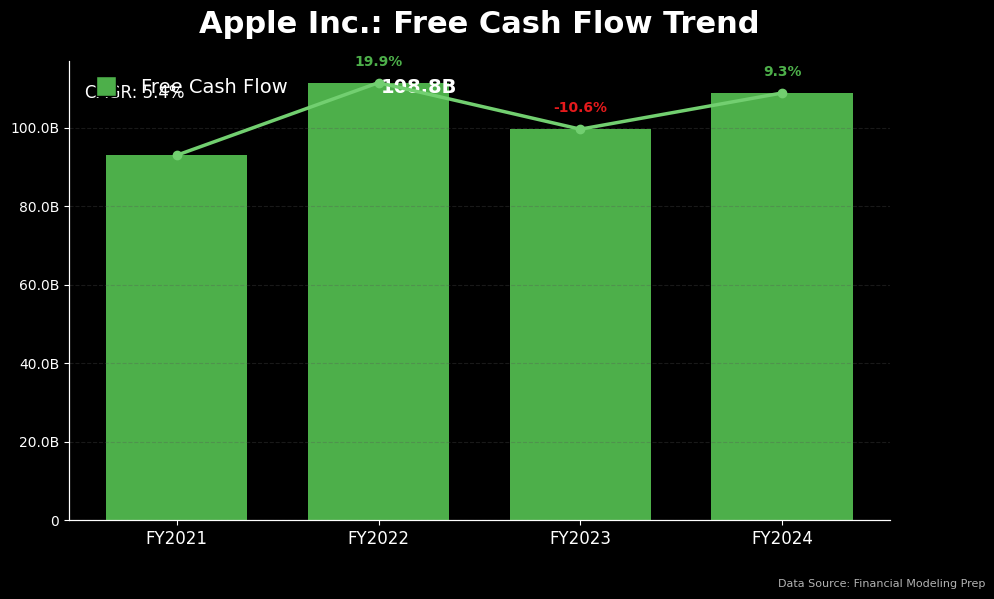
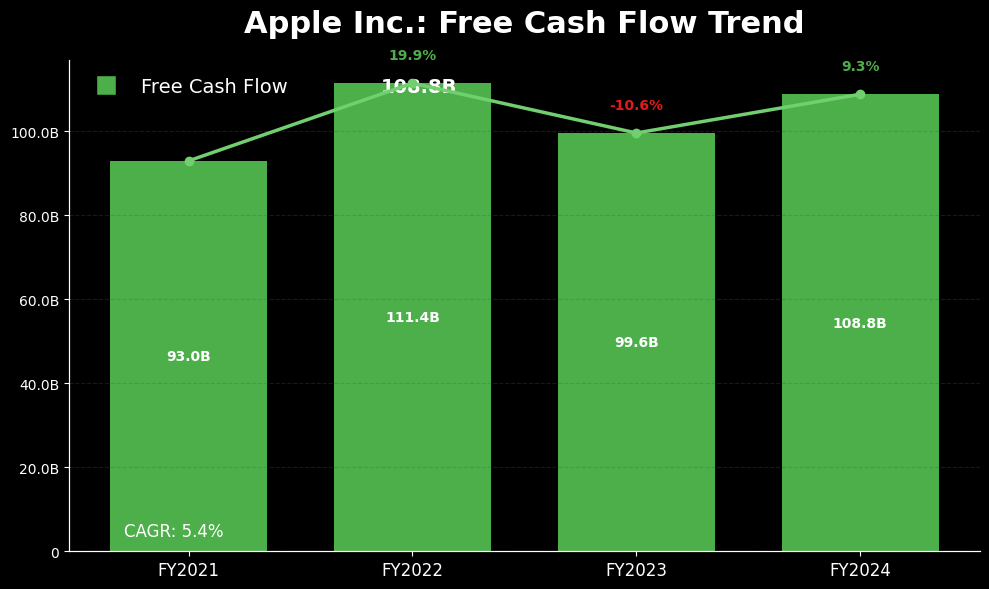
cash flow done

diff --git a/src/fundamentals_historical.py b/src/fundamentals_historical.py
@@ -505,7 +505,7 @@ def get_fmp_cashflow_data(ticker, years=4, retries=3):
     return None, ticker
 
 def generate_free_cash_flow_chart(ticker, years=4, dark_theme=True):
-    """Generate a chart showing free cash flow trend over time."""
+    """Generate a chart showing free cash flow trend over time with improved text layout."""
     print(f"INFO: Generating FCF chart for {ticker}, years={years}, dark_theme={dark_theme}")
     
     try:
@@ -534,27 +534,36 @@ def generate_free_cash_flow_chart(ticker, years=4, dark_theme=True):
             
         fcf_scaled = [f / divisor for f in free_cash_flow]
         
+        # Calculate CAGR for title
+        cagr = 0
+        if len(fcf_scaled) > 1 and fcf_scaled[0] > 0:
+            years_count = len(fcf_scaled) - 1
+            cagr = ((fcf_scaled[-1] / fcf_scaled[0]) ** (1 / years_count) - 1) * 100
+        
         # Setup chart theme
         if dark_theme:
             plt.style.use('dark_background')
-            bar_color = '#4daf4a'      # Green 
+            bar_color = '#4daf4a'      # Green for FCF
             line_color = '#72cf70'     # Lighter green for trend line
             text_color = 'white'
             grid_color = '#555555'
         else:
             plt.style.use('default')
-            bar_color = '#4daf4a'      # Green 
+            bar_color = '#4daf4a'      # Green for FCF
             line_color = '#72cf70'     # Lighter green for trend line
             text_color = 'black'
             grid_color = '#cccccc'
             
-        # Create the chart  
+        # Create the chart with more padding for text elements
         fig, ax = plt.subplots(figsize=(10, 6))
+        
+        # Adjust margins to ensure text fits
+        plt.subplots_adjust(left=0.1, right=0.9, top=0.88, bottom=0.12)
         
         # Bar positions
         x = np.arange(len(year_labels))
         
-        # Create bars with a wider width since we only have one series
+        # Create bars with a wider width
         fcf_bars = ax.bar(x, fcf_scaled, 0.7, color=bar_color)
         
         # Add trend line
@@ -578,48 +587,46 @@ def generate_free_cash_flow_chart(ticker, years=4, dark_theme=True):
                 growth_rates.append(0)
         
         # Add growth rate annotations above bars (except first bar)
+        # Position them higher above the bars to avoid overlap
         for i in range(1, len(fcf_scaled)):
             if i-1 < len(growth_rates):
                 growth = growth_rates[i-1]
-                color = '#4daf4a' if growth >= 0 else '#e41a1c' 
+                color = '#4daf4a' if growth >= 0 else '#e41a1c'  # Green for positive, red for negative
                 ax.annotate(f"{growth:.1f}%", 
                             xy=(x[i], fcf_scaled[i]), 
-                            xytext=(0, 10),
+                            xytext=(0, 14),  # Higher position
                             textcoords="offset points",
                             ha='center', va='bottom',
                             color=color, 
                             fontweight='bold',
                             fontsize=10)
         
-        # Set title and labels
-        chart_title = f'{company_name}: Free Cash Flow Trend'
-        ax.set_title(chart_title, fontsize=22, pad=20, color=text_color, fontweight='bold')
+        # Add FCF value annotations ONLY INSIDE each bar (not above)
+        for i, value in enumerate(fcf_scaled):
+            ax.annotate(f"{value:.1f}{unit}", 
+                       xy=(x[i], value/2),  # Position in middle of bar
+                       ha='center', va='center',
+                       color='white', 
+                       fontweight='bold',
+                       fontsize=11)
         
-        # Create custom legend with latest FCF value
-        latest_fcf = fcf_scaled[-1]
+        # Set title with CAGR included if available
+        if cagr != 0:
+            chart_title = f'{company_name}: Free Cash Flow Trend (CAGR: {cagr:.1f}%)'
+        else:
+            chart_title = f'{company_name}: Free Cash Flow Trend'
+            
+        ax.set_title(chart_title, fontsize=22, pad=15, color=text_color, fontweight='bold')
         
+        # Create clean, simple legend
+        from matplotlib.lines import Line2D
         legend_elements = [
-            # FCF square and label
             Line2D([0], [0], color='none', marker='s', markersize=15, 
-                   markerfacecolor=bar_color, label="Free Cash Flow"),
-            # FCF value
-            Line2D([0], [0], color='none', marker=' ', markersize=1, 
-                   label=f"{latest_fcf:.1f}{unit}")
+                   markerfacecolor=bar_color, label="Free Cash Flow")
         ]
         
         legend = ax.legend(handles=legend_elements, loc='upper left', 
-                          ncol=2, frameon=False, fontsize=14)
-        
-        # Make the value bold
-        legend.get_texts()[1].set_fontweight('bold')
-        
-        # Calculate and display CAGR (Compound Annual Growth Rate)
-        if len(fcf_scaled) > 1 and fcf_scaled[0] > 0:
-            years_count = len(fcf_scaled) - 1
-            cagr = ((fcf_scaled[-1] / fcf_scaled[0]) ** (1 / years_count) - 1) * 100
-            cagr_text = f"CAGR: {cagr:.1f}%"
-            ax.text(0.02, 0.95, cagr_text, transform=ax.transAxes, 
-                    fontsize=12, va='top', color=text_color)
+                          frameon=False, fontsize=14)
                 
         # Configure axes  
         ax.set_xticks(x)
@@ -636,7 +643,7 @@ def generate_free_cash_flow_chart(ticker, years=4, dark_theme=True):
         ax.grid(axis='y', linestyle='--', alpha=0.3, color=grid_color)
         ax.spines['top'].set_visible(False)
         ax.spines['right'].set_visible(False)
-        
+
         plt.tight_layout()
         
         # Save to buffer
